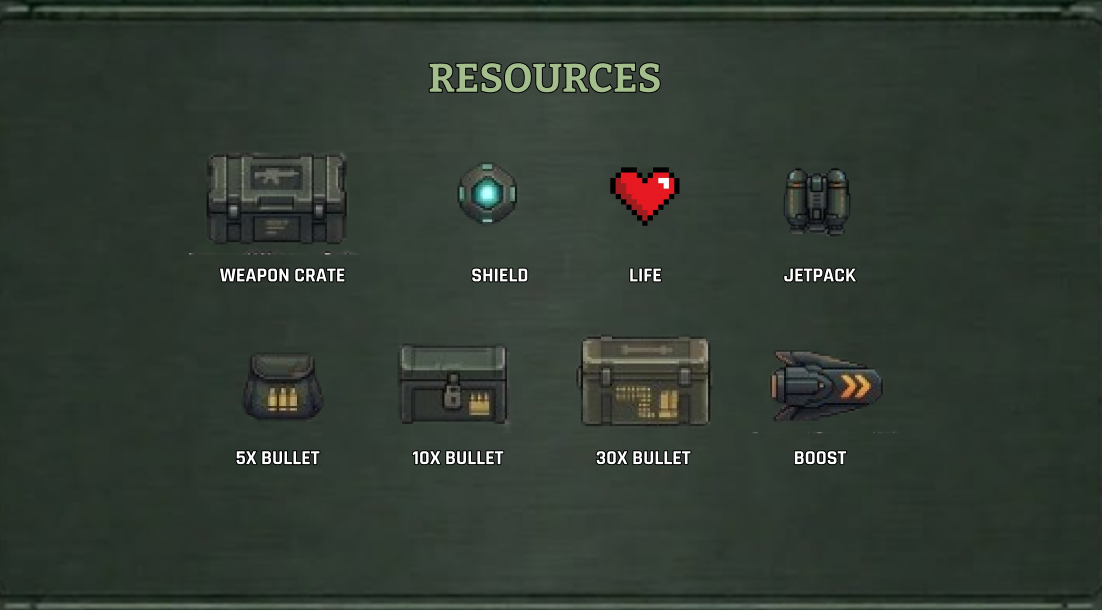
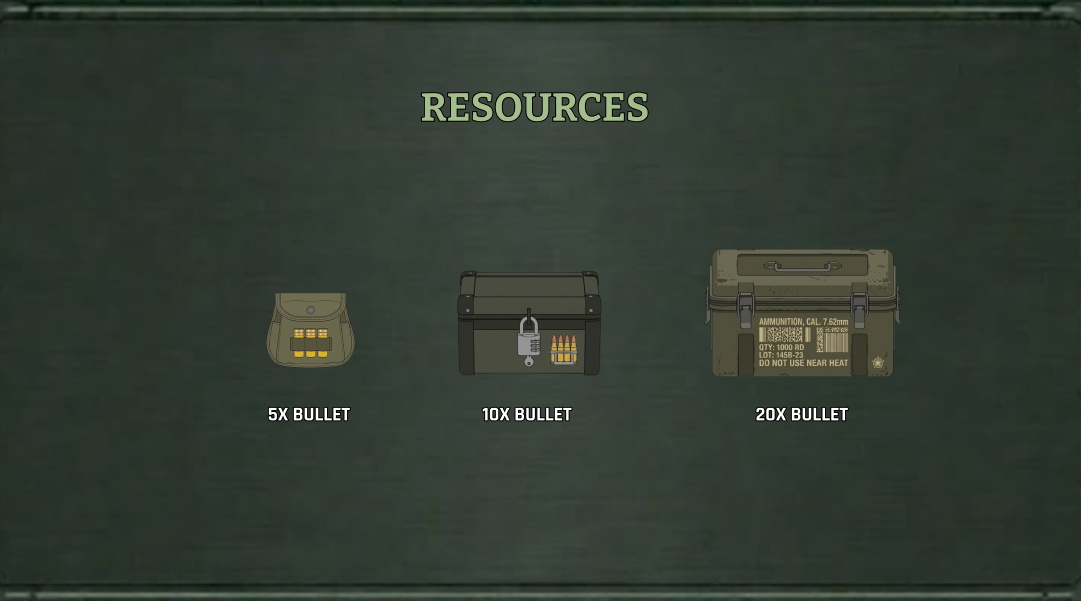
added resources

diff --git a/js/game.js b/js/game.js
@@ -172,7 +172,6 @@ class Game {
 
     document.getElementById("map-preview-img").addEventListener("click", confirmMap);
     document.getElementById("btn-map-confirm").addEventListener("click", confirmMap);
-    document.getElementById("btn-resources-back").addEventListener("click", () => this.setState("map-select"));
     document.getElementById("btn-resources-ok").addEventListener("click", () => this.setState("level-info"));
     document.getElementById("btn-level-info-ok").addEventListener("click", () => this.startMission());
 
@@ -256,14 +255,6 @@ class Game {
         previewImg.src = `assets/sprites/environment/${assetName}_selectmap.jpg`;
         document.querySelector('.map-card-container').style.cursor = 'pointer';
       }
-    }
-
-    const resourcesInfoImg = document.getElementById("resources-info-img");
-    if (resourcesInfoImg) {
-      let infoAsset = `assets/space/gameinfo_space.png`;
-      if (this.currentMapId === "jungle") infoAsset = `assets/sprites/ui/buttons/jungle map/level2_info.png`;
-      if (this.currentMapId === "canyon") infoAsset = `assets/sprites/ui/buttons/labva map/gameinfo_lava.png`;
-      resourcesInfoImg.src = infoAsset;
     }
 
     const levelInfoImg = document.getElementById("level-info-img");

diff --git a/css/style.css b/css/style.css
@@ -348,7 +348,7 @@ button {
 .resources-fullscreen-image {
   width: 100%;
   height: 100%;
-  object-fit: cover;
+  object-fit: contain;
   display: block;
 }
 
@@ -359,19 +359,19 @@ button {
   transform: translateX(-50%);
   display: flex;
   align-items: center;
-  gap: 2rem;
+  gap: 15px; /* Dagdag space sa pagitan ng mga buttons/images */
   z-index: 10;
 }
 
-#screen-resources .menu-actions button img {
-  width: 140px;
-  height: auto;
+/* Target ang images sa loob */
+#screen-resources .menu-actions img {
+  width: 80px; /* Halimbawa ng laki */
+  transition: transform 0.2s; /* Optional: smooth transition */
 }
 
-#screen-resources .btn-return {
-  position: absolute;
-  bottom: -1rem;
-  right: -40vw;
+#screen-resources .menu-actions button img {
+  width: 200px;
+  height: auto;
 }
 
 #level-info-img {

diff --git a/index.html b/index.html
@@ -75,11 +75,8 @@
         <img src="assets/resources_menu/resources.png" id="resources-info-img" alt="Game Resources" class="resources-fullscreen-image">
       </div>
       <div class="menu-actions">
-        <button id="btn-resources-back" class="btn-img btn-return">
-          <img src="assets/sprites/ui/buttons/returntomainmenu - Copy.png" alt="Back">
-        </button>
         <button id="btn-resources-ok" class="btn-img">
-          <img src="assets/sprites/ui/buttons/ok.png" alt="Start Deployment">
+          <img src="assets/resources_menu/ok.png" alt="OK">
         </button>
       </div>
     </section>
